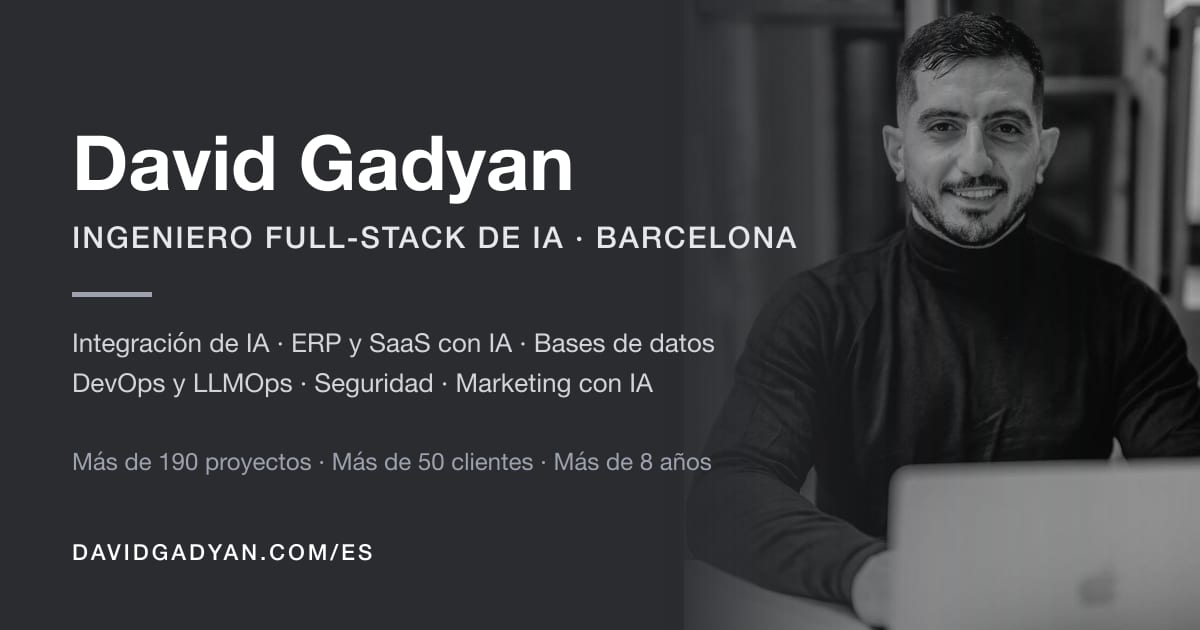
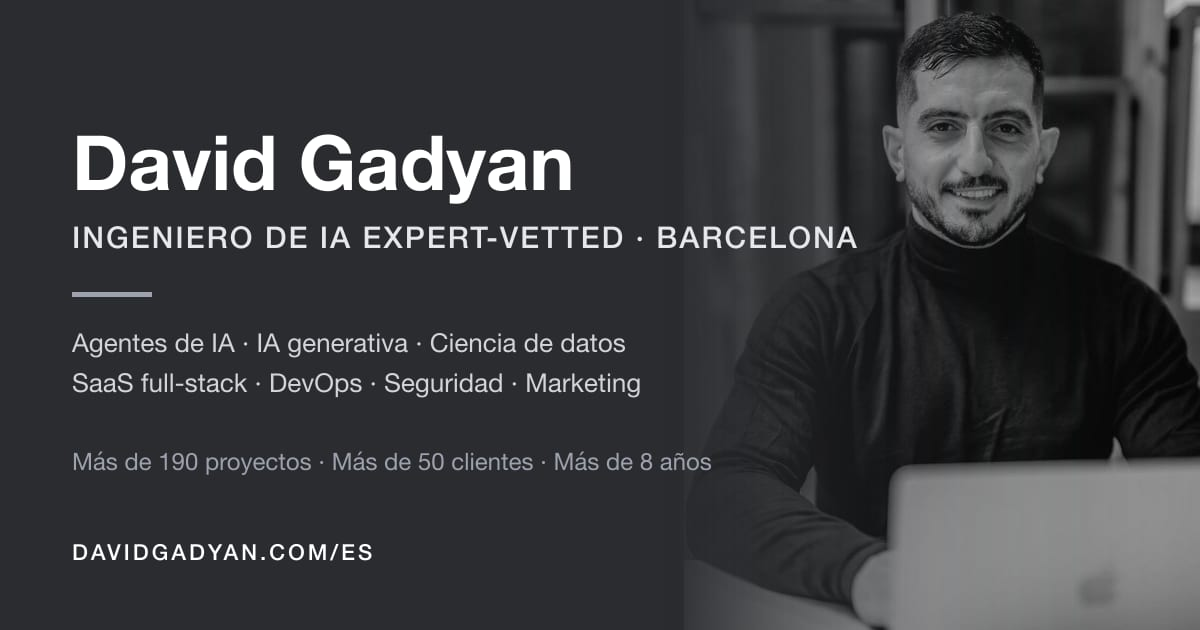
Position the site as Expert-Vetted AI Engineer, Data Scientist and SaaS developer
Home title and description, OG alt text, manifest, JSON-LD job title and share cards now carry the
Upwork headline (Expert-Vetted AI Engineer | Data Scientist | AI Agent | Generative AI | SaaS); the
bio opens with those roles and the running-line skills instead of "Full-Stack AI Engineer". EN + ES.

Claude-Session: https://claude.ai/code/session_01GULYrVTHwoqJtjhWSgETnv

Changed region(s): [[0.0617, 0.5127, 0.6167, 0.6333], [0.2158, 0.3619, 0.7092, 0.3921]]

diff --git a/data/site.ts b/data/site.ts
@@ -4,7 +4,7 @@ export const site = {
   name: 'David Gadyan',
   firstName: 'David',
   lastName: 'Gadyan',
-  jobTitle: { en: 'Full-Stack AI Engineer', es: 'Ingeniero Full-Stack de IA' } as Localized<string>,
+  jobTitle: { en: 'Expert-Vetted AI Engineer, Data Scientist & SaaS Developer', es: 'Ingeniero de IA Expert-Vetted, Científico de datos y Desarrollador SaaS' } as Localized<string>,
   city: 'Barcelona',
   region: 'Catalonia',
   country: 'ES',
@@ -17,12 +17,12 @@ export const site = {
   shareCard: { en: '/share-card.jpg', es: '/share-card-es.jpg' } as Localized<string>,
   about: {
     en: [
-      "I'm David Gadyan, a Data Scientist & AI SaaS Engineer based in Barcelona. For eight years I have been the one person clients call when an idea has to become a working product: I design the interface, build the front end and back end, wire in the AI (LLMs, RAG, agents, MCP tools), design the database, deploy it on AWS, GCP or Kubernetes, harden it with security audits and GDPR-aware data handling, and then set up the analytics and ads tracking that show whether it moved a business number. All of this for **mutual success**.",
+      "I'm David Gadyan, an Upwork **Expert-Vetted (top 1%)** AI Engineer and Data Scientist in Barcelona. I build AI agents, generative AI and machine learning products end to end: UX/UI, full-stack SaaS and ERP, databases, computer vision, algorithmic trading systems, DevOps with MLOps and LLMOps, security and compliance, and the marketing analytics that prove the result. One person from the idea to a product that moves a business number, for **mutual success**.",
       'That end-to-end scope is the point. There is no hand-off between a designer, an ML team, a DevOps contractor and a marketing agency, so nothing gets lost and nothing is anyone else\'s fault.',
       'Credentials: **190+ delivered projects**, **50+ long-term clients**, **8,700+ hours**, **Upwork Expert-Vetted (top 1%)**, **Toptal**, **$500k+ earned**. MSc Data Science (honours) from Barcelona School of Economics, MBA from the American University of Armenia.',
     ],
     es: [
-      'Soy David Gadyan, Científico de datos e Ingeniero de SaaS con IA afincado en Barcelona. Desde hace ocho años soy la persona a la que mis clientes llaman cuando una idea tiene que convertirse en un producto que funcione: diseño la interfaz, construyo el frontend y el backend, integro la IA (LLM, RAG, agentes, herramientas MCP), diseño la base de datos, lo despliego en AWS, GCP o Kubernetes, lo protejo con auditorías de seguridad y un tratamiento de datos conforme al RGPD, y después monto la analítica y el seguimiento de anuncios que demuestran si ha movido una cifra de negocio. Todo ello para un **éxito mutuo**.',
+      'Soy David Gadyan, Ingeniero de IA y Científico de datos **Expert-Vetted en Upwork (el 1 % mejor)**, afincado en Barcelona. Construyo agentes de IA y productos de IA generativa y machine learning de principio a fin: UX/UI, SaaS y ERP full-stack, bases de datos, visión artificial, sistemas de trading algorítmico, DevOps con MLOps y LLMOps, seguridad y cumplimiento, y la analítica de marketing que demuestra el resultado. Una sola persona desde la idea hasta un producto que mueve una cifra de negocio, para un **éxito mutuo**.',
       'Ese alcance de principio a fin es la clave. No hay traspasos entre un diseñador, un equipo de ML, un contratista de DevOps y una agencia de marketing, así que nada se pierde por el camino y nada es culpa de otro.',
       'Credenciales: **más de 190 proyectos entregados**, **más de 50 clientes de larga duración**, **más de 8.700 horas**, **Expert-Vetted en Upwork (el 1 % mejor)**, **Toptal**, **más de 500.000 $ facturados**. Máster en Ciencia de Datos (con honores) por la Barcelona School of Economics y MBA por la American University of Armenia.',
     ],

diff --git a/app/manifest.ts b/app/manifest.ts
@@ -5,9 +5,9 @@ export const dynamic = 'force-static';
 
 export default function manifest(): MetadataRoute.Manifest {
   return {
-    name: 'David Gadyan — Full-Stack AI Engineer',
+    name: 'David Gadyan — Expert-Vetted AI Engineer',
     short_name: 'David Gadyan',
-    description: 'Full-Stack AI Engineer in Barcelona: AI integration, AI ERP/SaaS, databases, DevOps, security and AI marketing.',
+    description: 'Expert-Vetted AI Engineer and Data Scientist in Barcelona: AI agents, generative AI, full-stack SaaS, DevOps, security and AI marketing.',
     start_url: withBasePath('/'),
     display: 'browser',
     background_color: '#2b2c2f',
